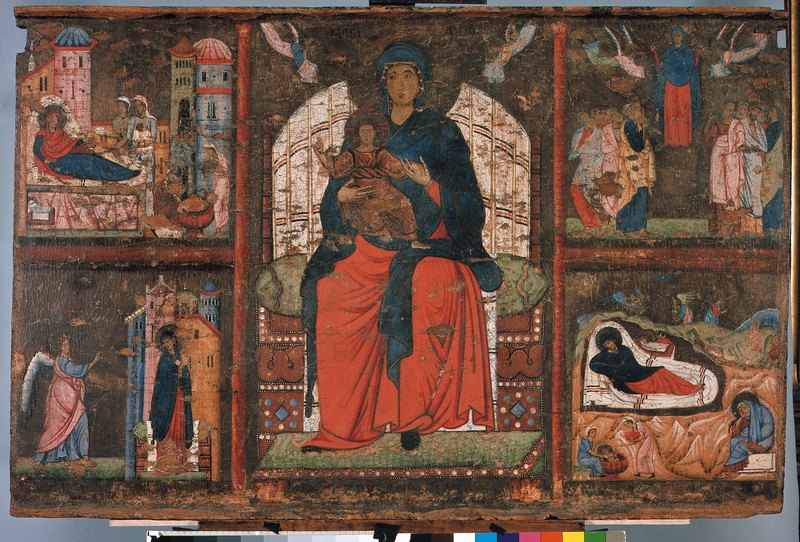
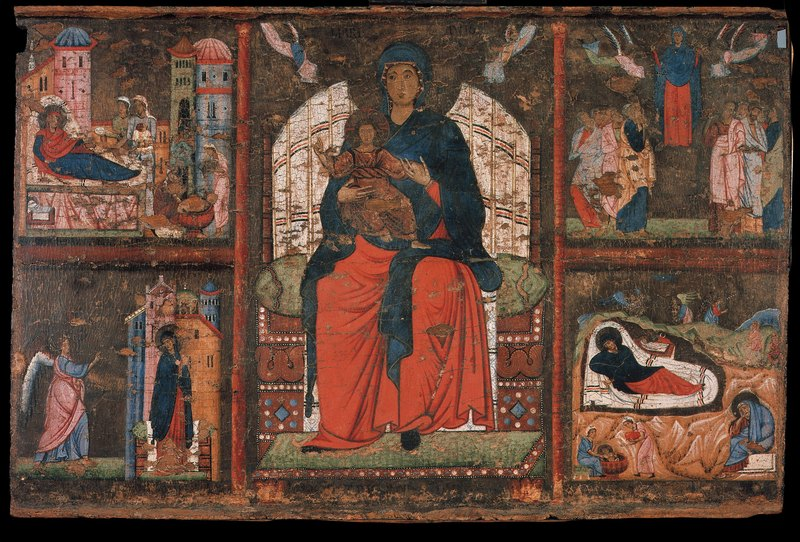
Simeone e Machilone: cropped photo of the Antwerp dossal (zoom v2) [skip notices]

Changed region(s): [[0.0, 0.0, 1.0, 1.0]]

diff --git a/Content/Artists/XIII-c/Simeone-and-Machilone.md b/Content/Artists/XIII-c/Simeone-and-Machilone.md
@@ -304,7 +304,7 @@ The inscription is the only one of the signed works to give, in a surviving obje
 ### The Antwerp Dossal
 
 <figure>
-  <img src="/Images/Simeone-e-Machilone/simeone-e-machilone-12.jpg" data-zoom-src="/Images/Simeone-e-Machilone/simeone-e-machilone-12-zoom.jpg" alt="A horizontal panel divided into three parts by painted columns. In the centre the Virgin, in a dark blue mantle over a red-orange dress, sits frontally on a throne with a pale striated rounded backrest and a green cushion, holding the Child on her lap; two small angels fly above. At the left, the Birth of the Virgin with Saint Anne reclining before towers, and below it the Annunciation with the angel and the Virgin before a building. At the right, the Assumption with the Virgin among angels above the apostles, and below it the Nativity with the Virgin lying on a mattress in a rocky landscape and the bathing of the Child.">
+  <img src="/Images/Simeone-e-Machilone/simeone-e-machilone-12.jpg" data-zoom-src="/Images/Simeone-e-Machilone/simeone-e-machilone-12-zoom-v2.jpg" alt="A horizontal panel divided into three parts by painted columns. In the centre the Virgin, in a dark blue mantle over a red-orange dress, sits frontally on a throne with a pale striated rounded backrest and a green cushion, holding the Child on her lap; two small angels fly above. At the left, the Birth of the Virgin with Saint Anne reclining before towers, and below it the Annunciation with the angel and the Virgin before a building. At the right, the Assumption with the Virgin among angels above the apostles, and below it the Nativity with the Virgin lying on a mattress in a rocky landscape and the bathing of the Child.">
   <figcaption>Simeone and Machilone, dossal with the Virgin and Child enthroned and four scenes from the life of the Virgin, c. 1250–1260, tempera on panel, 79 × 120 cm. Antwerp, Museum Mayer van den Bergh, MMB 0195. Photo: DAMS Antwerpen / Museum Mayer van den Bergh, public domain, via Wikimedia Commons.</figcaption>
 </figure>
 
